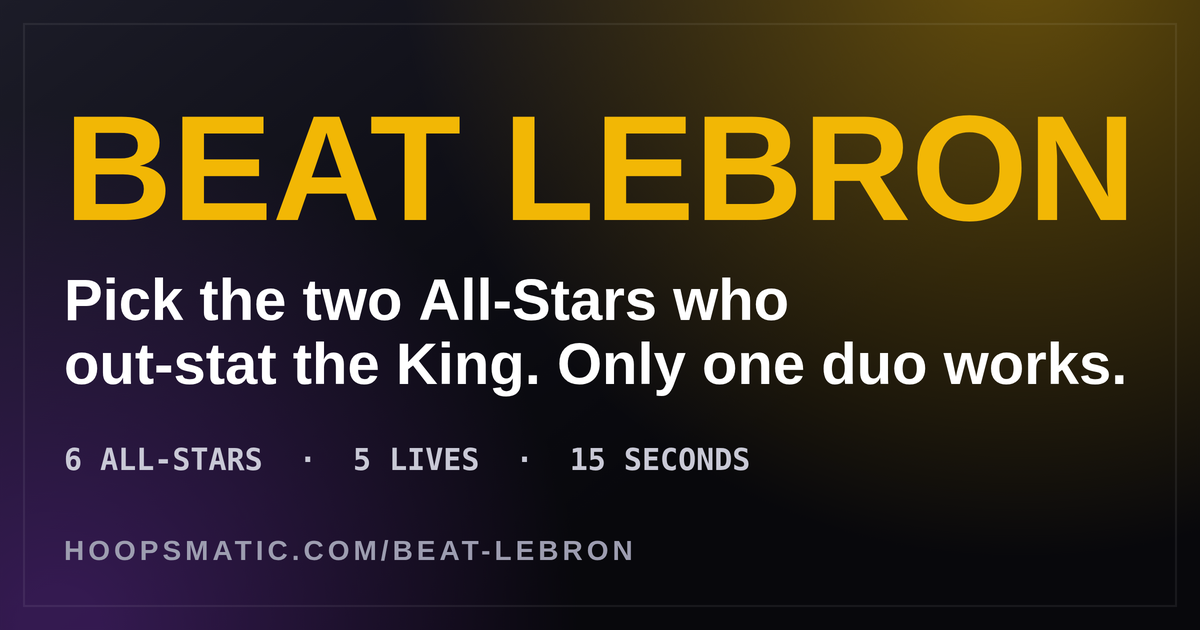
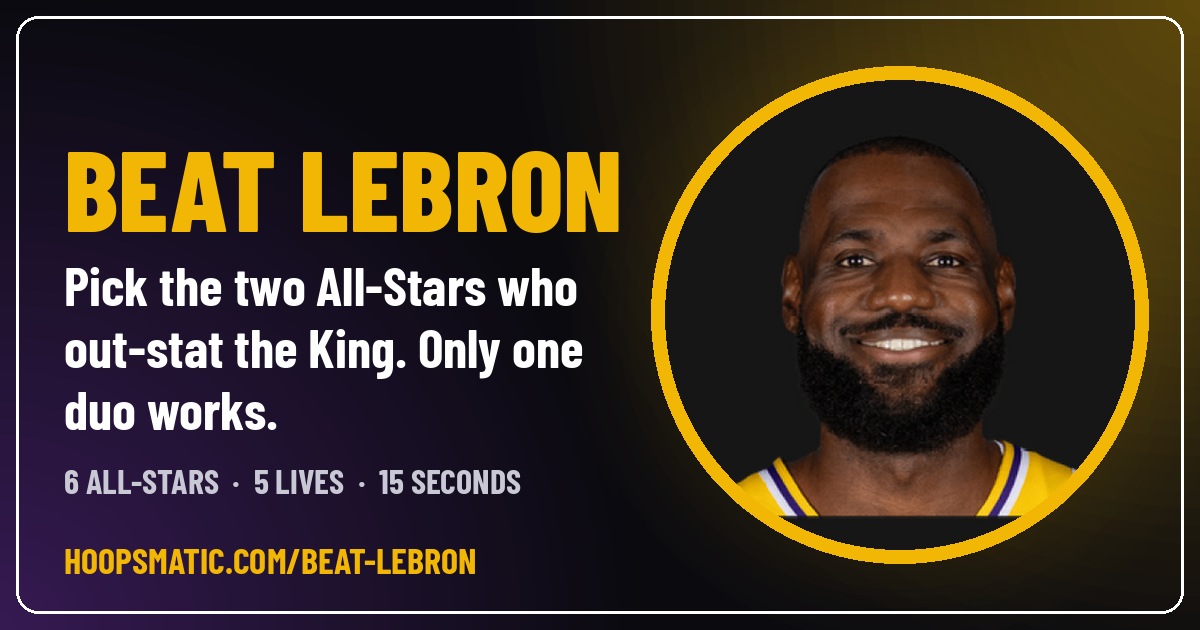
v5: mistake-first share card and text, social card with headshot

diff --git a/index.html b/index.html
@@ -540,9 +540,17 @@
   }
 
   // ---------------- sharing (73-9 style: card preview, link, 6 platforms, download/copy/native) ----------------
+  // Share text leads with the loss, names the duo that ended the run, and keeps under X's limit.
   function shareText() {
-    const n = S.correct;
-    return 'I scored ' + fmt(S.score) + ' points in Beat LeBron, finding ' + n + ' All-Star duo' + (n === 1 ? '' : 's') + ' that out-stat LeBron James before running out of lives. Can you beat that?';
+    const n = S.correct, last = S.missed[S.missed.length - 1];
+    let t = '';
+    if (last) {
+      const mine = last.picked ? 'I went ' + last.picked[0] + ' + ' + last.picked[1] + ' (' + fmt(last.pickedSum) + ')' : 'I ran out of time';
+      t = mine + '. Should have been ' + last.a + ' + ' + last.b + ' (' + fmt(last.sum) + ' ' + last.label + ', LeBron has ' + fmt(last.L) + '). ';
+    }
+    t += 'LeBron 5, me ' + n + (n ? ', ' + fmt(S.score) + ' points' : '') + '. Beat that.';
+    if (t.length > 245) t = (last ? (last.picked ? 'I went ' + last.picked[0] + ' + ' + last.picked[1] + ', should have been ' + last.a + ' + ' + last.b + '. ' : '') : '') + 'LeBron 5, me ' + n + ', ' + fmt(S.score) + ' points. Beat that.';
+    return t;
   }
   function shareURL() {
     const nm = savedName().name;
@@ -602,8 +610,8 @@
     ctx.fillStyle = disc; ctx.beginPath(); ctx.arc(cx, cy, R, 0, Math.PI * 2); ctx.fill();
     if (face) {
       ctx.save(); ctx.beginPath(); ctx.arc(cx, cy, R, 0, Math.PI * 2); ctx.closePath(); ctx.clip();
-      const z = 1.12, sz = R * 2 * z;   // slight zoom, biased upward so the head fills the disc
-      ctx.drawImage(face, cx - sz / 2, cy - sz / 2 - R * 0.06, sz, sz);
+      const z = 1.15, sz = R * 2 * z;   // zoom around the centre: head stays whole, the crop's hard bottom edge leaves the disc
+      ctx.drawImage(face, cx - sz / 2, cy - sz / 2, sz, sz);
       ctx.restore();
     } else {
       ctx.fillStyle = '#f2b705'; ctx.font = '800 96px ' + COND; ctx.textAlign = 'center'; ctx.fillText('LJ', cx, cy + 34); ctx.textAlign = 'left';
@@ -614,27 +622,31 @@
     ctx.fillStyle = 'rgba(255,255,255,.07)'; rr(ctx, 56, 296, W - 112, 232, 26); ctx.fill();
     ctx.fillStyle = '#c9c9d6'; ctx.font = '700 32px ' + COND; ls('4px');
     ctx.fillText(d.name ? d.name.toUpperCase() + '  ·  FINAL SCORE' : 'FINAL SCORE', 96, 350); ls('0px');
-    ctx.fillStyle = '#ffffff'; ctx.font = '800 164px ' + COND; ctx.fillText(fmt(d.score), 90, 502);
+    ctx.fillStyle = '#ffffff'; fitText(ctx, fmt(d.score), 430, '800', 164, COND, 100); ctx.fillText(fmt(d.score), 90, 502);
     ctx.textAlign = 'right';
-    ctx.fillStyle = '#4fd48a'; ctx.font = '800 82px ' + COND; ctx.fillText(d.correct + ' RIGHT', W - 96, 420);
-    ctx.fillStyle = '#ffffff'; ctx.font = '700 30px ' + MONO; ctx.fillText('streak ' + d.streak + '  ·  avg ' + d.avg + 's', W - 96, 490);
+    const nm = d.missed.length;
+    ctx.fillStyle = '#ff5c5c'; fitText(ctx, nm + (nm === 1 ? ' MISS' : ' MISSES'), 440, '800', 96, COND, 60); ctx.fillText(nm + (nm === 1 ? ' MISS' : ' MISSES'), W - 96, 426);
+    const statLine = d.correct + ' right · streak ' + d.streak + ' · avg ' + d.avg + 's';
+    ctx.fillStyle = '#ffffff'; fitText(ctx, statLine, 440, '700', 30, MONO, 18); ctx.fillText(statLine, W - 96, 492);
     ctx.textAlign = 'left';
 
     // the misses
     const misses = d.missed.slice(-5);
     ctx.fillStyle = '#ff6b6b'; ctx.font = '700 36px ' + COND; ls('4px');
-    ctx.fillText(misses.length ? 'THE ' + ['', 'ONE', 'TWO', 'THREE', 'FOUR', 'FIVE'][misses.length] + ' YOU MISSED' : 'NO MISSES', 66, 590); ls('0px');
+    ctx.fillText(misses.length ? 'WHERE LEBRON GOT ME' : 'NO MISSES', 66, 590); ls('0px');
     let ty = 612; const rowH = 112, gap = 10;
     misses.forEach(m => {
       ctx.fillStyle = 'rgba(255,255,255,.07)'; rr(ctx, 56, ty, W - 112, rowH, 20); ctx.fill();
       ctx.fillStyle = '#ff6b6b'; rr(ctx, 56, ty, 10, rowH, 5); ctx.fill();
-      ctx.fillStyle = '#ffffff'; fitText(ctx, m.a + ' + ' + m.b, W - 200, '700', 44, COND, 30); ctx.fillText(m.a + ' + ' + m.b, 92, ty + 46);
+      // the mistake is the headline; the stat and the actual answer follow
+      const mine = m.picked ? m.picked[0] + ' + ' + m.picked[1] + ' = ' + fmt(m.pickedSum) : 'Time ran out, no pick';
+      ctx.fillStyle = '#ffffff'; fitText(ctx, mine, W - 200, '700', 44, COND, 30); ctx.fillText(mine, 92, ty + 46);
       ctx.fillStyle = '#f2b705'; ctx.font = '600 27px ' + COND; ls('1px');
-      const stat = fmt(m.sum) + ' ' + m.label.toUpperCase() + '  (LEBRON ' + fmt(m.L) + ')';
+      const stat = m.label.toUpperCase() + '  ·  LEBRON ' + fmt(m.L);
       ctx.fillText(ellip(ctx, stat, W - 200), 92, ty + 78); ls('0px');
       ctx.fillStyle = '#c9c9d6'; ctx.font = '500 24px ' + MONO;
-      const yours = m.picked ? 'you: ' + m.picked[0] + ' + ' + m.picked[1] + ' = ' + fmt(m.pickedSum) : 'time ran out';
-      ctx.fillText(ellip(ctx, yours, W - 200), 92, ty + 104);
+      const answer = 'answer: ' + m.a + ' + ' + m.b + ' = ' + fmt(m.sum);
+      ctx.fillText(ellip(ctx, answer, W - 200), 92, ty + 104);
       ty += rowH + gap;
     });
 

diff --git a/make_og_card.py b/make_og_card.py
@@ -1,0 +1,138 @@
+#!/usr/bin/env python3
+"""
+Builds og-beat-lebron.png (1200x630), the social preview card for Beat LeBron.
+
+Default: LeBron's headshot from the nba-headshots repo inside a gold medallion on the right,
+title and hook text on the left. Optional: --photo some.jpg uses a licensed photo full-bleed
+on the right half instead (faded into the dark background), the 73-9 style.
+
+    python make_og_card.py                       # headshot version
+    python make_og_card.py --photo lebron.jpg    # licensed-photo version
+    python make_og_card.py --title "BEAT LEBRON" --hook "Two All-Stars vs. the King"
+
+Needs Pillow (pip install pillow). Fonts are fetched once from the google/fonts repo if
+they are not next to the script.
+"""
+import argparse, io, os, sys, urllib.request
+from PIL import Image, ImageDraw, ImageFont, ImageFilter
+
+HERE = os.path.dirname(os.path.abspath(__file__))
+W, H = 1200, 630
+GOLD, WHITE, GREY, BG = (242, 183, 5), (255, 255, 255), (201, 201, 214), (10, 10, 15)
+FONTS = {
+    "BarlowCondensed-ExtraBold.ttf": "https://raw.githubusercontent.com/google/fonts/main/ofl/barlowcondensed/BarlowCondensed-ExtraBold.ttf",
+    "BarlowCondensed-Bold.ttf": "https://raw.githubusercontent.com/google/fonts/main/ofl/barlowcondensed/BarlowCondensed-Bold.ttf",
+}
+HEADSHOT = "https://raw.githubusercontent.com/jsierrahoopshype/nba-headshots/main/players/headshots/face2/2544-lebron-james.png"
+
+
+def fetch(url):
+    with urllib.request.urlopen(url, timeout=60) as r:
+        return r.read()
+
+
+def font(name, size):
+    path = os.path.join(HERE, name)
+    if not os.path.exists(path):
+        open(path, "wb").write(fetch(FONTS[name]))
+    return ImageFont.truetype(path, size)
+
+
+def radial(size, color, alpha_center, feather=1.0):
+    """Soft radial glow as an RGBA layer."""
+    s = size
+    layer = Image.new("L", (s, s), 0)
+    d = ImageDraw.Draw(layer)
+    steps = 40
+    for i in range(steps, 0, -1):
+        r = int(s / 2 * i / steps)
+        a = int(alpha_center * (1 - i / steps) ** feather)
+        d.ellipse((s / 2 - r, s / 2 - r, s / 2 + r, s / 2 + r), fill=a)
+    out = Image.new("RGBA", (s, s), color + (0,))
+    out.putalpha(layer)
+    return out
+
+
+def main():
+    ap = argparse.ArgumentParser()
+    ap.add_argument("--photo", help="licensed photo to use full-bleed on the right (jpg/png)")
+    ap.add_argument("--title", default="BEAT LEBRON")
+    ap.add_argument("--hook", default="Pick the two All-Stars who out-stat the King. Only one duo works.")
+    ap.add_argument("--out", default=os.path.join(HERE, "og-beat-lebron.png"))
+    a = ap.parse_args()
+
+    im = Image.new("RGBA", (W, H), BG + (255,))
+    # washes: gold top-right, purple bottom-left
+    im.alpha_composite(radial(1400, GOLD, 95), (W - 700, -700))
+    im.alpha_composite(radial(1300, (85, 37, 131), 150), (-650, H - 650))
+
+    if a.photo:
+        ph = Image.open(a.photo).convert("RGBA")
+        # cover the right 58% of the card, fade the left edge into the background
+        target_h = H
+        ph = ph.resize((int(ph.width * target_h / ph.height), target_h))
+        x0 = W - ph.width
+        mask = Image.new("L", ph.size, 255)
+        md = ImageDraw.Draw(mask)
+        fade = 260
+        for i in range(fade):
+            md.line([(i, 0), (i, H)], fill=int(255 * i / fade))
+        ph.putalpha(mask)
+        im.alpha_composite(ph, (max(x0, W - int(W * .58)), 0))
+        text_w = W - int(W * .55)
+    else:
+        face = Image.open(io.BytesIO(fetch(HEADSHOT))).convert("RGBA")
+        D = 470
+        face = face.resize((D, D), Image.LANCZOS)
+        cx, cy = W - 300, H // 2
+        # glow + ring + clipped face
+        im.alpha_composite(radial(D + 260, GOLD, 120, 1.6), (cx - (D + 260) // 2, cy - (D + 260) // 2))
+        ring = Image.new("RGBA", (D + 28, D + 28), (0, 0, 0, 0))
+        ImageDraw.Draw(ring).ellipse((0, 0, D + 27, D + 27), fill=GOLD + (255,))
+        im.alpha_composite(ring, (cx - (D + 28) // 2, cy - (D + 28) // 2))
+        # zoom 1.15 around the centre so the headshot's hard bottom edge falls outside the disc
+        Z = int(D * 1.15)
+        big = face.resize((Z, Z), Image.LANCZOS)
+        disc = Image.new("RGBA", (D, D), (0, 0, 0, 0))
+        disc.alpha_composite(big, ((D - Z) // 2, (D - Z) // 2))
+        m = Image.new("L", (D, D), 0)
+        ImageDraw.Draw(m).ellipse((0, 0, D - 1, D - 1), fill=255)
+        disc.putalpha(m)
+        im.alpha_composite(disc, (cx - D // 2, cy - D // 2))
+        text_w = cx - D // 2 - 90
+
+    d = ImageDraw.Draw(im)
+    x = 64
+    # title, shrunk to fit the text column
+    size = 168
+    while size > 90:
+        f = font("BarlowCondensed-ExtraBold.ttf", size)
+        if d.textlength(a.title, font=f) <= text_w:
+            break
+        size -= 6
+    d.text((x, 118), a.title, font=f, fill=GOLD)
+    # hook, wrapped
+    hf = font("BarlowCondensed-Bold.ttf", 54)
+    words, lines, cur = a.hook.split(), [], ""
+    for wd in words:
+        t = (cur + " " + wd).strip()
+        if d.textlength(t, font=hf) <= text_w:
+            cur = t
+        else:
+            lines.append(cur); cur = wd
+    lines.append(cur)
+    y = 118 + size + 20
+    for ln in lines[:3]:
+        d.text((x, y), ln, font=hf, fill=WHITE)
+        y += 62
+    sf = font("BarlowCondensed-Bold.ttf", 34)
+    d.text((x, y + 22), "6 ALL-STARS  ·  5 LIVES  ·  15 SECONDS", font=sf, fill=GREY)
+    d.text((x, H - 92), "HOOPSMATIC.COM/BEAT-LEBRON", font=font("BarlowCondensed-Bold.ttf", 36), fill=GOLD)
+    d.rounded_rectangle((16, 16, W - 17, H - 17), radius=22, outline=(255, 255, 255, 26), width=3)
+
+    im.convert("RGB").save(a.out, "PNG", optimize=True)
+    print("wrote", a.out)
+
+
+if __name__ == "__main__":
+    main()
